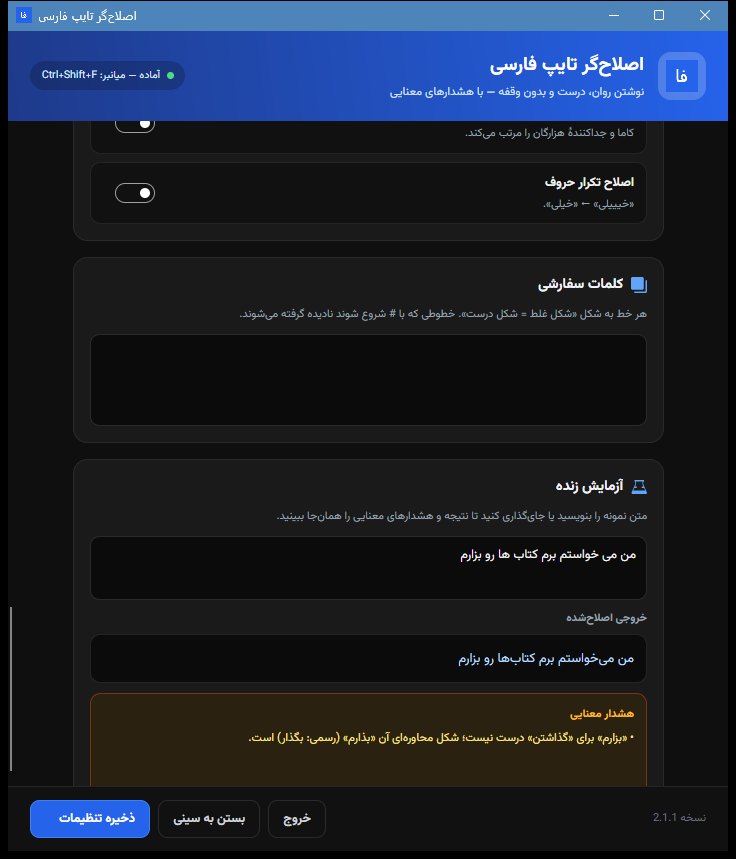
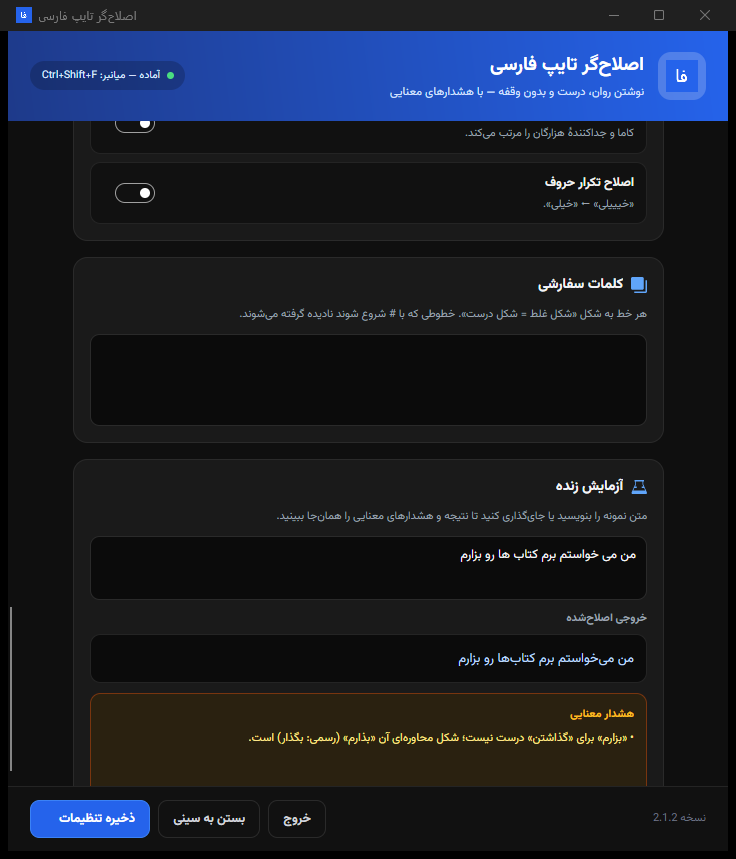
fix: correct all pending words in auto-fix

Changed region(s): [[0.0, 0.0, 1.0, 0.0605]]

diff --git a/dotnet/src/PersianTypoFixer.Core/AutoFixer.cs b/dotnet/src/PersianTypoFixer.Core/AutoFixer.cs
@@ -8,7 +8,6 @@ public sealed class AutoFixer : IDisposable
     private const int DebounceMs = 450;
 
     private static readonly Regex BoundaryRe = new(@"[\s.,!?؟؛;:،…»)\]}\-–—]$", RegexOptions.Compiled);
-    private static readonly Regex TailRe = new(@"(?:[^\s]+\s+)?[^\s]+(?:\s+)?$", RegexOptions.Compiled);
 
     private static readonly HashSet<string> ResetKeys = new(StringComparer.Ordinal)
     {
@@ -19,6 +18,7 @@ public sealed class AutoFixer : IDisposable
     private readonly IInputBackend _input;
     private readonly object _gate = new();
     private string _buffer = "";
+    private int _fixStart;
     private Timer? _timer;
     private int _generation;
     private volatile bool _injecting;
@@ -73,6 +73,7 @@ public sealed class AutoFixer : IDisposable
         lock (_gate)
         {
             _buffer = "";
+            _fixStart = 0;
             _generation++;
         }
     }
@@ -120,6 +121,8 @@ public sealed class AutoFixer : IDisposable
             {
                 if (_buffer.Length > 0)
                     _buffer = _buffer[..^1];
+                if (_fixStart > _buffer.Length)
+                    _fixStart = _buffer.Length;
                 _generation++;
             }
             Cancel();
@@ -136,7 +139,11 @@ public sealed class AutoFixer : IDisposable
         int gen;
         lock (_gate)
         {
-            _buffer = ClampTail(_buffer + ch.Value);
+            var combined = _buffer + ch.Value;
+            var overflow = Math.Max(0, combined.Length - MaxBuffer);
+            _buffer = overflow > 0 ? combined[overflow..] : combined;
+            if (overflow > 0)
+                _fixStart = Math.Max(0, _fixStart - overflow);
             _generation++;
             gen = _generation;
         }
@@ -170,11 +177,13 @@ public sealed class AutoFixer : IDisposable
         if (!options.Enabled)
             return;
         string text;
+        int start;
         lock (_gate)
         {
             if (gen != _generation)
                 return;
             text = _buffer;
+            start = Math.Clamp(_fixStart, 0, text.Length);
             _timer = null;
         }
         if (options.Notices)
@@ -183,8 +192,11 @@ public sealed class AutoFixer : IDisposable
             return;
         if (text.Trim().Length == 0 || !BoundaryRe.IsMatch(text))
             return;
-        var match = TailRe.Match(text);
-        var snippet = match.Success ? match.Value : text;
+        if (start >= text.Length)
+            return;
+        var snippet = text[start..];
+        if (string.IsNullOrWhiteSpace(snippet))
+            return;
         string fixedText;
         try
         {
@@ -195,13 +207,21 @@ public sealed class AutoFixer : IDisposable
             return;
         }
         if (fixedText == snippet)
+        {
+            lock (_gate)
+            {
+                if (gen == _generation)
+                    _fixStart = LastWordStart(text);
+            }
             return;
+        }
         Replace(snippet, fixedText);
         lock (_gate)
         {
             if (gen == _generation)
             {
-                _buffer = ClampTail(text[..^snippet.Length] + fixedText);
+                _buffer = ClampTail(text[..start] + fixedText);
+                _fixStart = LastWordStart(_buffer);
                 _generation++;
             }
         }
@@ -261,6 +281,17 @@ public sealed class AutoFixer : IDisposable
     }
 
     public void Dispose() => Stop();
+
+    private static int LastWordStart(string value)
+    {
+        var end = value.Length;
+        while (end > 0 && char.IsWhiteSpace(value[end - 1]))
+            end--;
+        var start = end;
+        while (start > 0 && !char.IsWhiteSpace(value[start - 1]))
+            start--;
+        return start;
+    }
 
     private static string ClampTail(string value)
         => value.Length > MaxBuffer ? value[^MaxBuffer..] : value;

diff --git a/dotnet/src/PersianTypoFixer.App/SettingsWindow.axaml.cs b/dotnet/src/PersianTypoFixer.App/SettingsWindow.axaml.cs
@@ -16,7 +16,7 @@ public partial class SettingsWindow : Window
         ("عمومی", nameof(FixOptions.Enabled), "برنامه فعال باشد",
             "میانبر، هشدارها و اصلاح خودکار در دسترس باشند."),
         ("عمومی", nameof(FixOptions.AutoFix), "اصلاح خودکار هنگام تایپ",
-            "پس از هر فاصله، دو کلمهٔ آخر اصلاح میشود."),
+            "پس از هر توقف کوتاه، همهٔ کلمههای تایپشدهٔ اخیر اصلاح میشوند."),
 
         ("هشدار معنایی", nameof(FixOptions.Notices), "نمایش هشدار معنایی",
             "برای «بزار / بذار»، «میزارم / میگذارم»، «حیات / حیاط» و… نوتیف راهنما نشان بده."),

diff --git a/dotnet/src/PersianTypoFixer.Core/Platform/WindowsInput.cs b/dotnet/src/PersianTypoFixer.Core/Platform/WindowsInput.cs
@@ -130,11 +130,12 @@ public sealed class WindowsInput : IInputBackend
 
     public void PressBackspace(int count)
     {
+        var delay = count > 8 ? 1 : 5;
         for (var i = 0; i < count; i++)
         {
             keybd_event(VK_BACK, 0, 0, UIntPtr.Zero);
             keybd_event(VK_BACK, 0, KEYEVENTF_KEYUP, UIntPtr.Zero);
-            Thread.Sleep(5);
+            Thread.Sleep(delay);
         }
     }
 
